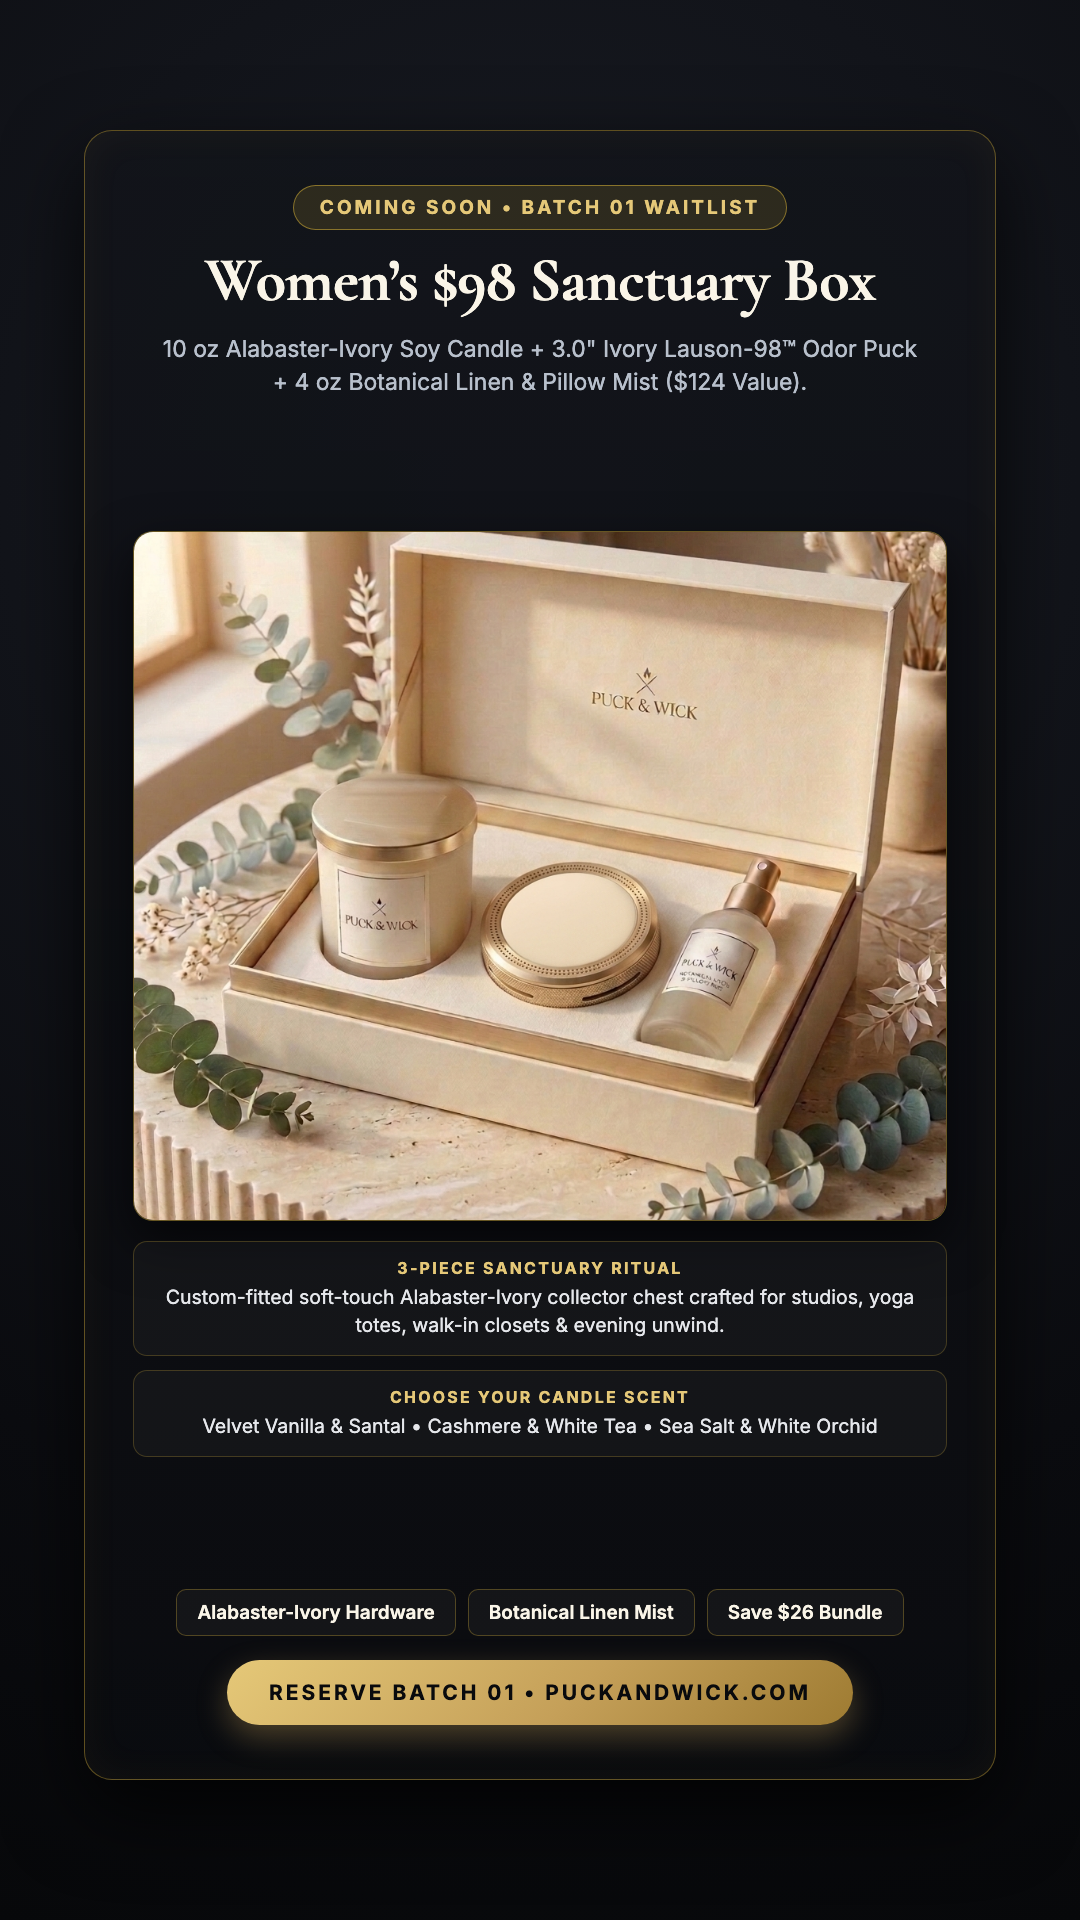
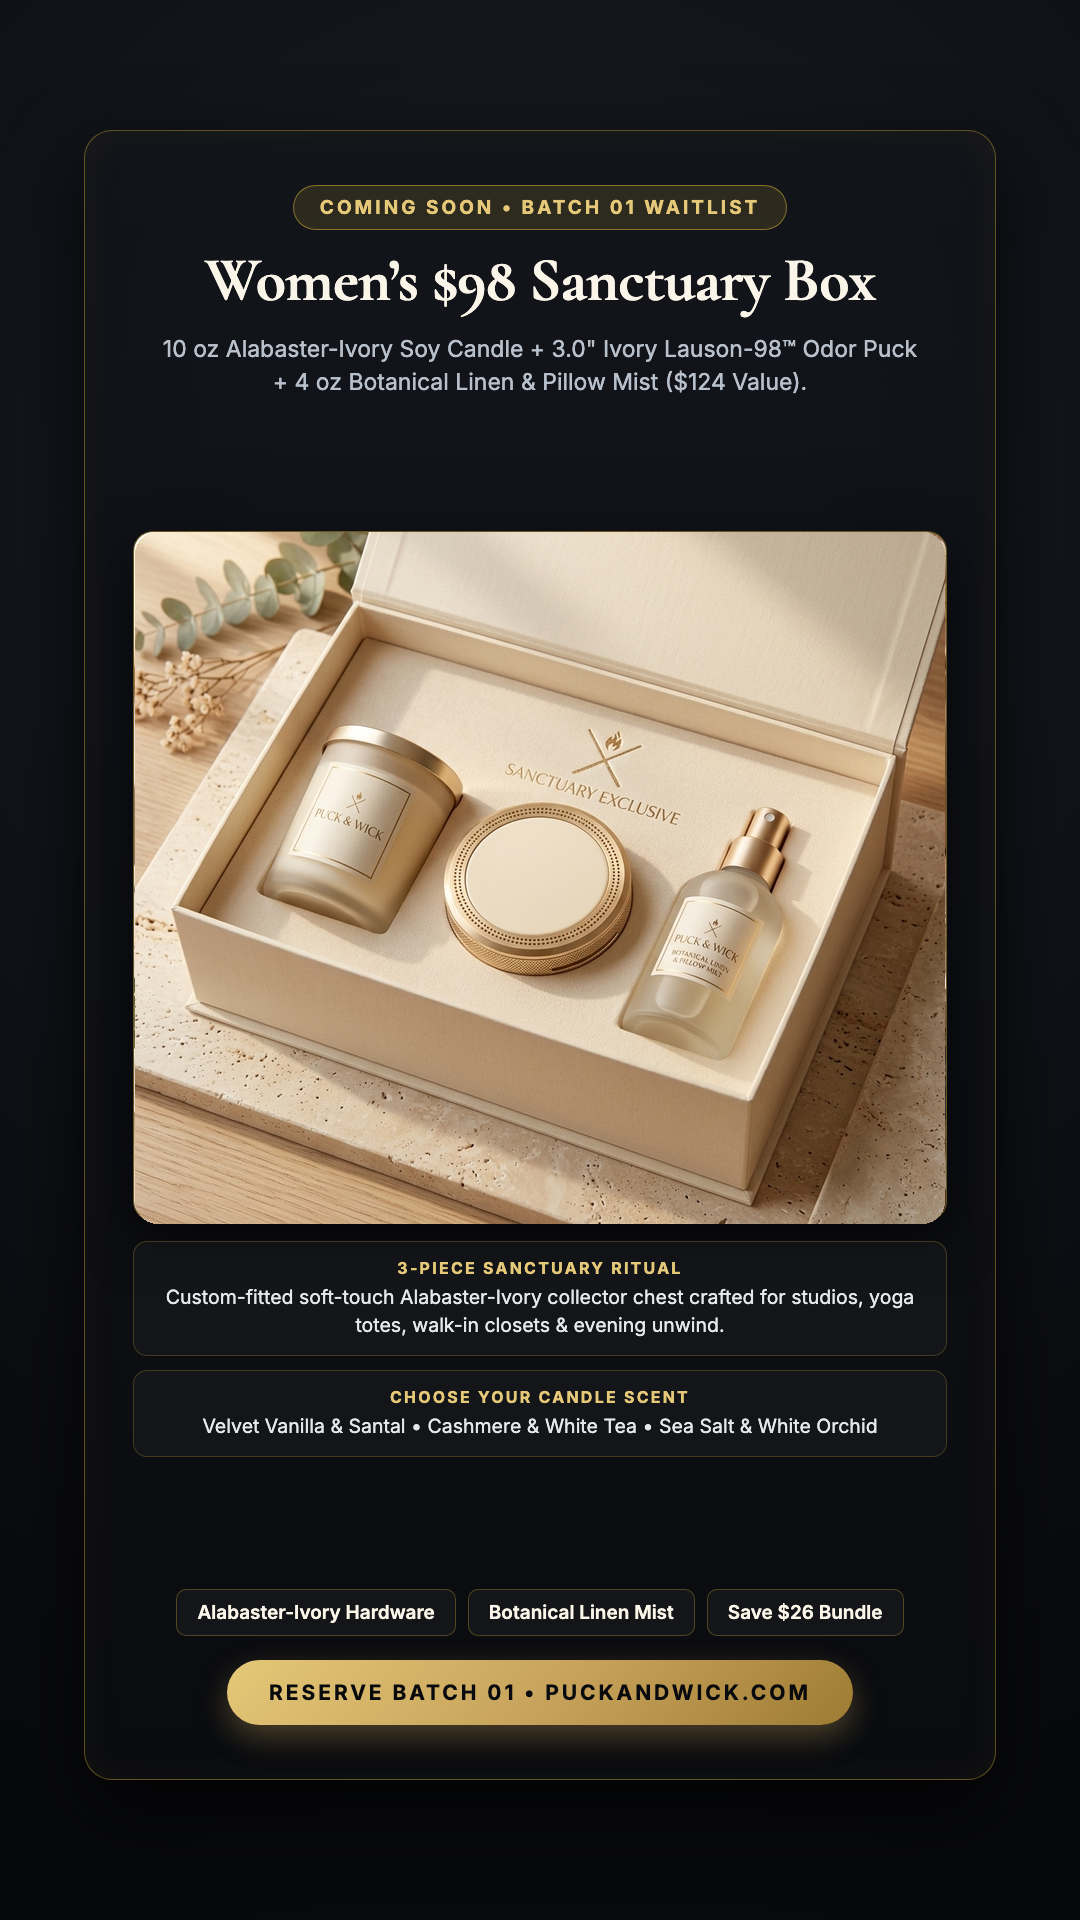
Match Women's  Deluxe Box open/closed angle & horizontal candle layout to Men's box and make closed boxes sleek rectangular (v45)

Changed region(s): [[0.1222, 0.25, 0.8861, 0.6562]]

diff --git a/js/data/box-data.js b/js/data/box-data.js
@@ -14,7 +14,7 @@ export const EXCLUSIVE_BOX_EDITIONS = {
     compareAtValue: 124.00,
     savings: 26.00,
     defaultCandleId: 'candle-top-shelf',
-    photo: 'assets/images/box-men-open.jpg',
+    photo: 'assets/images/box-men-open.jpg?v=45',
     description:
       'Engineered in Matte Obsidian & Brushed Gold (#98 Founder Jersey Tribute). Pairs your choice of 10 oz soy candle with our Lauson-98™ + Activated Charcoal gear puck and 8 oz detox body wash.',
     bundledItems: {
@@ -42,7 +42,7 @@ export const EXCLUSIVE_BOX_EDITIONS = {
         step: '01 • INSIDE THE BOX',
         shortLabel: 'Open Box',
         title: 'Custom-Cut Matte Obsidian Presentation Box (Open)',
-        image: 'assets/images/box-men-open.jpg',
+        image: 'assets/images/box-men-open.jpg?v=45',
         description: 'Precision-cut charcoal foam cradles your 10 oz Matte Obsidian Soy Candle, 3.0" Lauson-98™ Gear Puck, and 8 oz Athlete Detox Body Wash.'
       },
       {
@@ -50,7 +50,7 @@ export const EXCLUSIVE_BOX_EDITIONS = {
         step: '02 • SEALED & GIFT-READY',
         shortLabel: 'Box Closed',
         title: 'Heavy-Weight Matte Obsidian Magnetic Gift Box (Closed)',
-        image: 'assets/images/box-men-closed.jpg',
+        image: 'assets/images/box-men-closed.jpg?v=45',
         description: '1200gsm matte-black rigid board with concealed magnetic closure and hot-stamped metallic gold Precision Mark™ emblem.'
       },
       {
@@ -58,7 +58,7 @@ export const EXCLUSIVE_BOX_EDITIONS = {
         step: '03 • FULL-SIZE LINEUP',
         shortLabel: '3 Items',
         title: 'All 3 Full-Size Men’s / Athlete Components ($124 Value)',
-        image: 'assets/images/box-men-items-out.jpg',
+        image: 'assets/images/box-men-items-out.jpg?v=45',
         description: '(1) 10 oz American Soy Candle ($36), (2) 3.0" Lauson-98™ + Charcoal Gear Puck ($44), and (3) 8 oz Detox Body Wash ($44).'
       },
       {
@@ -66,7 +66,7 @@ export const EXCLUSIVE_BOX_EDITIONS = {
         step: '04 • IN ACTION',
         shortLabel: 'In Action',
         title: 'Rink to Shower to Living Room: All 3 Items in Action',
-        image: 'assets/images/box-men-usecase.jpg',
+        image: 'assets/images/box-men-usecase.jpg?v=45',
         description: 'Drop the Lauson-98™ Puck in your gear bag, strip post-game sweat with Charcoal Body Wash, and light your 10 oz Soy Candle.'
       }
     ]
@@ -80,7 +80,7 @@ export const EXCLUSIVE_BOX_EDITIONS = {
     compareAtValue: 124.00,
     savings: 26.00,
     defaultCandleId: 'candle-top-shelf',
-    photo: 'assets/images/box-women-open.jpg',
+    photo: 'assets/images/box-women-open.jpg?v=45',
     description:
       'Crafted in Warm Frosted Ivory & Champagne Gold (#98 Founder Tribute). Pairs your choice of 10 oz soy candle with our 3.0" Warm Ivory/White Lauson-98™ + Carbon Workout Tote & Closet Puck and 4 oz Lauson-98™ Botanical Linen Mist.',
     bundledItems: {
@@ -108,7 +108,7 @@ export const EXCLUSIVE_BOX_EDITIONS = {
         step: '01 • INSIDE THE BOX',
         shortLabel: 'Open Box',
         title: 'Warm Alabaster-Ivory & Champagne-Gold Magnetic Box (Open)',
-        image: 'assets/images/box-women-open.jpg',
+        image: 'assets/images/box-women-open.jpg?v=45',
         description: 'Warm cream suede-touch foam cradles your 10 oz Unlit Frosted Ivory Soy Candle, 3.0" Warm Ivory/White Sanctuary Puck, and 4 oz Botanical Linen Mist.'
       },
       {
@@ -116,7 +116,7 @@ export const EXCLUSIVE_BOX_EDITIONS = {
         step: '02 • SEALED & GIFT-READY',
         shortLabel: 'Box Closed',
         title: 'Warm Ivory & Champagne-Gold Magnetic Gift Box (Closed)',
-        image: 'assets/images/box-women-closed.jpg',
+        image: 'assets/images/box-women-closed.jpg?v=45',
         description: 'Rigid magnetic keepsake box in warm alabaster-ivory matte linen board with brushed champagne-gold Precision Mark™ emblem.'
       },
       {
@@ -124,7 +124,7 @@ export const EXCLUSIVE_BOX_EDITIONS = {
         step: '03 • FULL-SIZE LINEUP',
         shortLabel: '3 Items',
         title: 'All 3 Full-Size Women’s Sanctuary Components ($124 Value)',
-        image: 'assets/images/box-women-items-out.jpg',
+        image: 'assets/images/box-women-items-out.jpg?v=45',
         description: '(1) 10 oz Soy Candle in Frosted Ivory Glass ($36), (2) 3.0" Warm Ivory/White Sanctuary Workout Tote & Closet Puck ($44), and (3) 4 oz Lauson-98™ Linen Mist ($44).'
       },
       {
@@ -132,7 +132,7 @@ export const EXCLUSIVE_BOX_EDITIONS = {
         step: '04 • IN ACTION',
         shortLabel: 'In Action',
         title: 'Yoga Tote & Closet to Linens to Bedside Sanctuary',
-        image: 'assets/images/box-women-usecase.jpg',
+        image: 'assets/images/box-women-usecase.jpg?v=45',
         description: 'Tuck the 3.0" Warm Ivory Sanctuary Puck into your yoga or workout tote bag, refresh fabrics with Lauson-98™ Botanical Mist, and light your Frosted Ivory Candle.'
       }
     ]

diff --git a/index.html b/index.html
@@ -33,40 +33,40 @@
   <meta name="twitter:image" content="https://puckandwick.com/assets/images/og-share-banner-v2.png">
 
   <!-- Core Theme & Layout Stylesheets (Cache-Busted v31) -->
-  <link rel="stylesheet" href="css/variables.css?v=44">
-  <link rel="stylesheet" href="css/base.css?v=44">
-  <link rel="stylesheet" href="css/nav.css?v=44">
-  <link rel="stylesheet" href="css/hero.css?v=44">
-  <link rel="stylesheet" href="css/catalog.css?v=44">
-  <link rel="stylesheet" href="css/modal.css?v=44">
-  <link rel="stylesheet" href="css/cart.css?v=44">
-  <link rel="stylesheet" href="css/checkout.css?v=44">
-  <link rel="stylesheet" href="css/box-builder.css?v=44">
-  <link rel="stylesheet" href="css/odor-science.css?v=44">
-  <link rel="stylesheet" href="css/brand-studio.css?v=44">
-  <link rel="stylesheet" href="css/story.css?v=44">
-  <link rel="stylesheet" href="css/stockist.css?v=44">
-  <link rel="stylesheet" href="css/footer.css?v=44">
-  <link rel="stylesheet" href="css/responsive.css?v=44">
+  <link rel="stylesheet" href="css/variables.css?v=45">
+  <link rel="stylesheet" href="css/base.css?v=45">
+  <link rel="stylesheet" href="css/nav.css?v=45">
+  <link rel="stylesheet" href="css/hero.css?v=45">
+  <link rel="stylesheet" href="css/catalog.css?v=45">
+  <link rel="stylesheet" href="css/modal.css?v=45">
+  <link rel="stylesheet" href="css/cart.css?v=45">
+  <link rel="stylesheet" href="css/checkout.css?v=45">
+  <link rel="stylesheet" href="css/box-builder.css?v=45">
+  <link rel="stylesheet" href="css/odor-science.css?v=45">
+  <link rel="stylesheet" href="css/brand-studio.css?v=45">
+  <link rel="stylesheet" href="css/story.css?v=45">
+  <link rel="stylesheet" href="css/stockist.css?v=45">
+  <link rel="stylesheet" href="css/footer.css?v=45">
+  <link rel="stylesheet" href="css/responsive.css?v=45">
 
   <!-- Module Cache-Busting Import Map (Forces Fresh Fetch of All ES Modules) -->
   <script type="importmap">
   {
     "imports": {
-      "./js/app.js": "./js/app.js?v=44",
-      "./js/data/products.js": "./js/data/products.js?v=44",
-      "./js/data/box-data.js": "./js/data/box-data.js?v=44",
-      "./js/data/logos.js": "./js/data/logos.js?v=44",
-      "./js/utils/svg-assets.js": "./js/utils/svg-assets.js?v=44",
-      "./js/modules/navigation.js": "./js/modules/navigation.js?v=44",
-      "./js/modules/catalog.js": "./js/modules/catalog.js?v=44",
-      "./js/modules/modal.js": "./js/modules/modal.js?v=44",
-      "./js/modules/cart.js": "./js/modules/cart.js?v=44",
-      "./js/modules/checkout.js": "./js/modules/checkout.js?v=44",
-      "./js/modules/box-builder.js": "./js/modules/box-builder.js?v=44",
-      "./js/modules/brand-studio.js": "./js/modules/brand-studio.js?v=44",
-      "./js/modules/jar-mockup.js": "./js/modules/jar-mockup.js?v=44",
-      "./js/modules/payment-adapters.js": "./js/modules/payment-adapters.js?v=44"
+      "./js/app.js": "./js/app.js?v=45",
+      "./js/data/products.js": "./js/data/products.js?v=45",
+      "./js/data/box-data.js": "./js/data/box-data.js?v=45",
+      "./js/data/logos.js": "./js/data/logos.js?v=45",
+      "./js/utils/svg-assets.js": "./js/utils/svg-assets.js?v=45",
+      "./js/modules/navigation.js": "./js/modules/navigation.js?v=45",
+      "./js/modules/catalog.js": "./js/modules/catalog.js?v=45",
+      "./js/modules/modal.js": "./js/modules/modal.js?v=45",
+      "./js/modules/cart.js": "./js/modules/cart.js?v=45",
+      "./js/modules/checkout.js": "./js/modules/checkout.js?v=45",
+      "./js/modules/box-builder.js": "./js/modules/box-builder.js?v=45",
+      "./js/modules/brand-studio.js": "./js/modules/brand-studio.js?v=45",
+      "./js/modules/jar-mockup.js": "./js/modules/jar-mockup.js?v=45",
+      "./js/modules/payment-adapters.js": "./js/modules/payment-adapters.js?v=45"
     }
   }
   </script>
@@ -646,6 +646,6 @@
   </footer>
 
   <!-- Application Bootstrap Module -->
-  <script type="module" src="js/app.js?v=44"></script>
+  <script type="module" src="js/app.js?v=45"></script>
 </body>
 </html>
